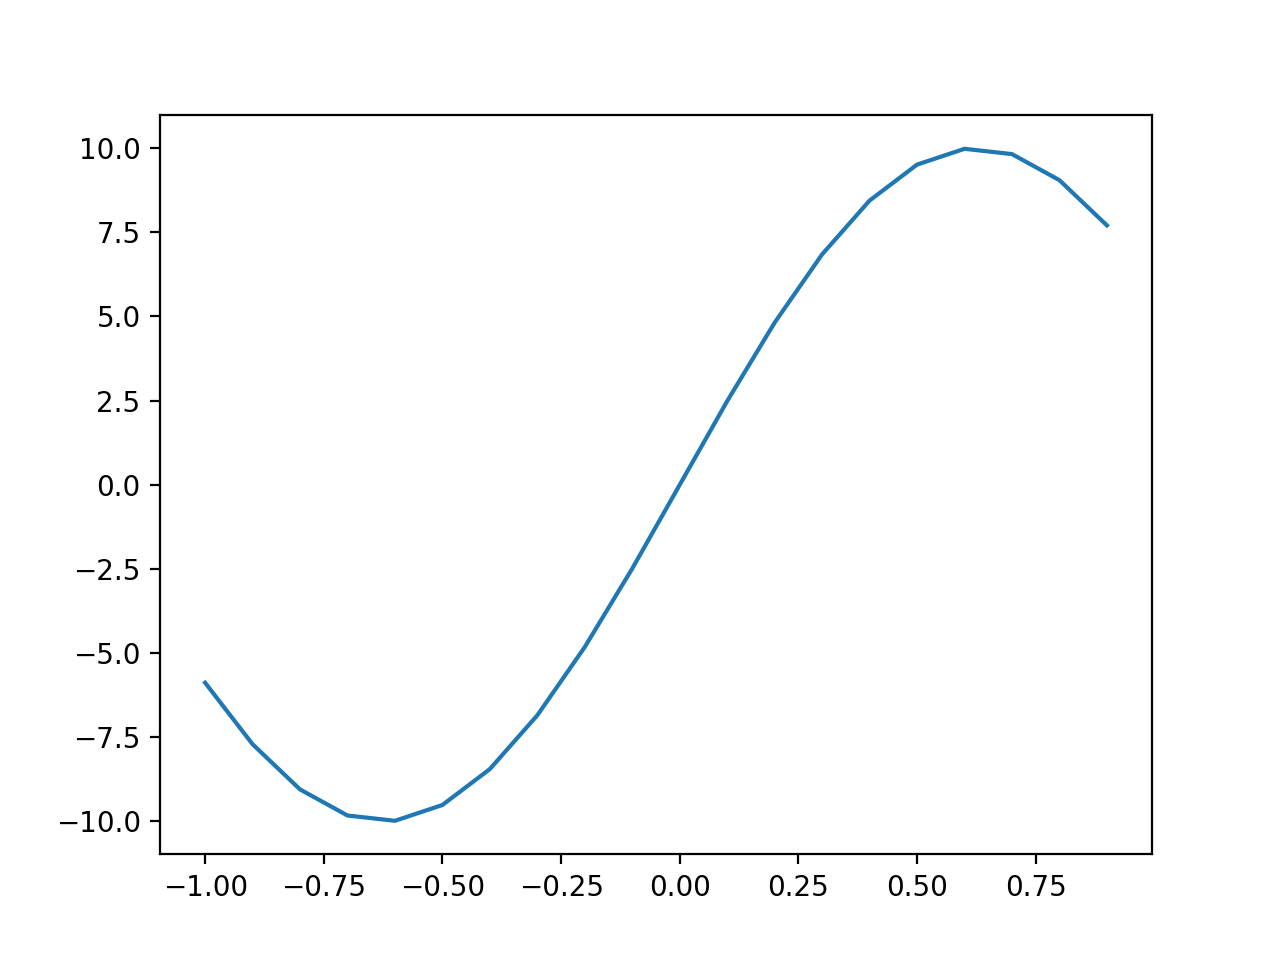
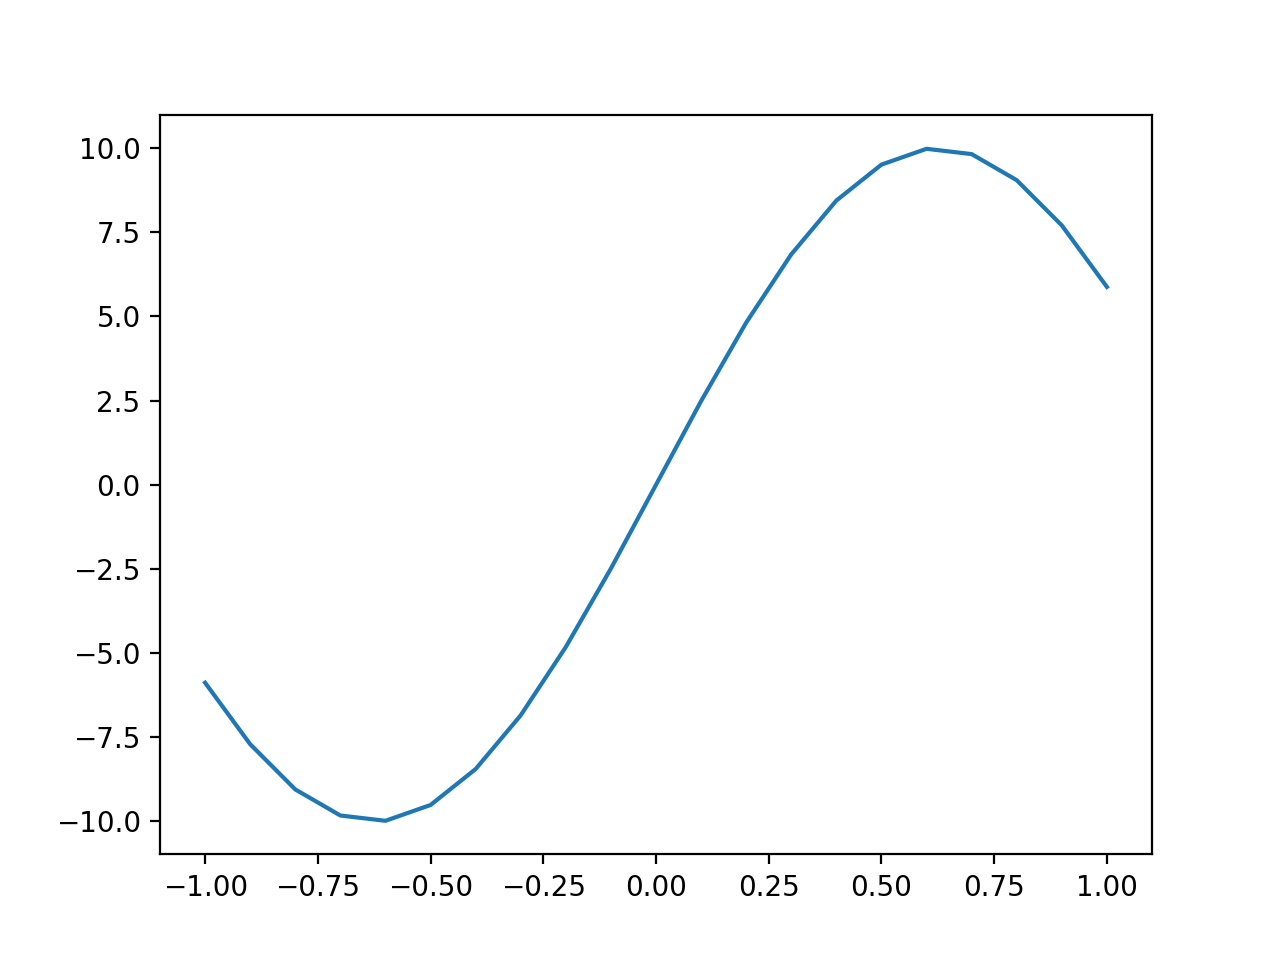
ex1.2 commit & fix

diff --git a/dataset1.py b/dataset1.py
@@ -16,14 +16,28 @@ def true_function(x):
     return y
 
 def en1():
-    x = np.arange(-1,1,0.1)
+    min = -1
+    max = 1
+    num = 0.1
+    x = num*np.arange(int(((max-min)/num))+1)-1
     y = true_function(x)
     plt.plot(x,y)
-    plt.show()
 
-def main():
+def en2():
+    min = -1
+    max = 1
+    num = 0.1
+    np.random.seed(0)
+    x = (max-min)*np.random.rand(int(((max-min)/num)))-1
+    y = true_function(x)
+    df = pd.DataFrame(data=x,columns=["観測点"])
+    df["真値"] = y
+    plt.scatter(x=df["観測点"],y=df["真値"],c="red")
     en1()
 
+def main():
+    en2()
+    plt.show()
 if __name__ == "__main__":
     main()
     doctest.testmod()
